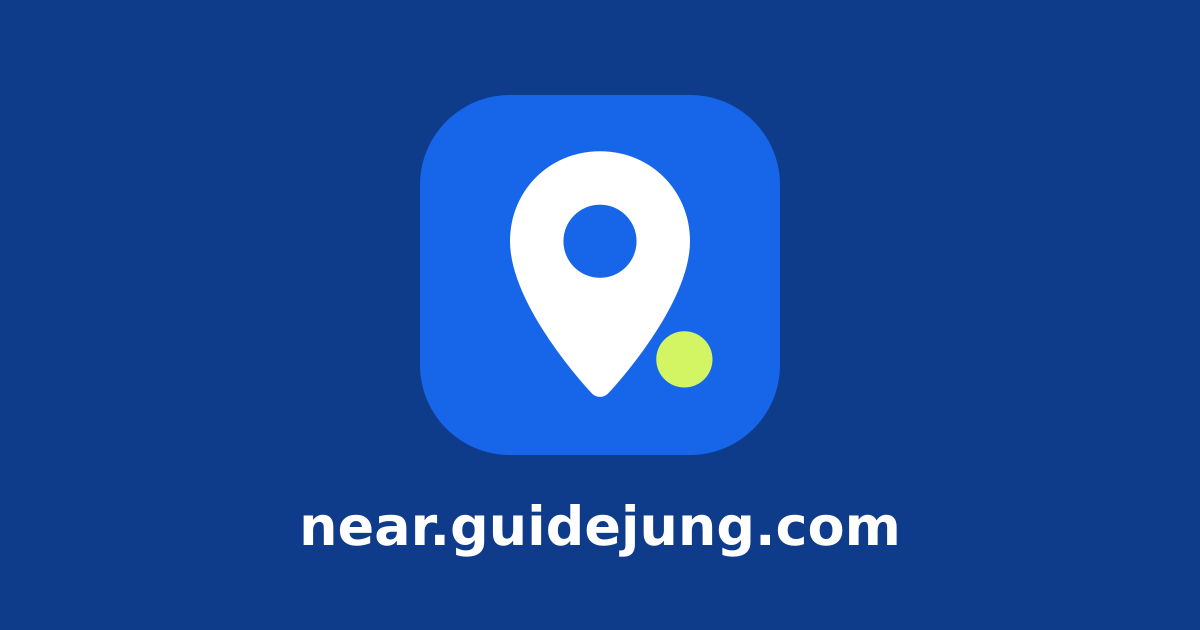
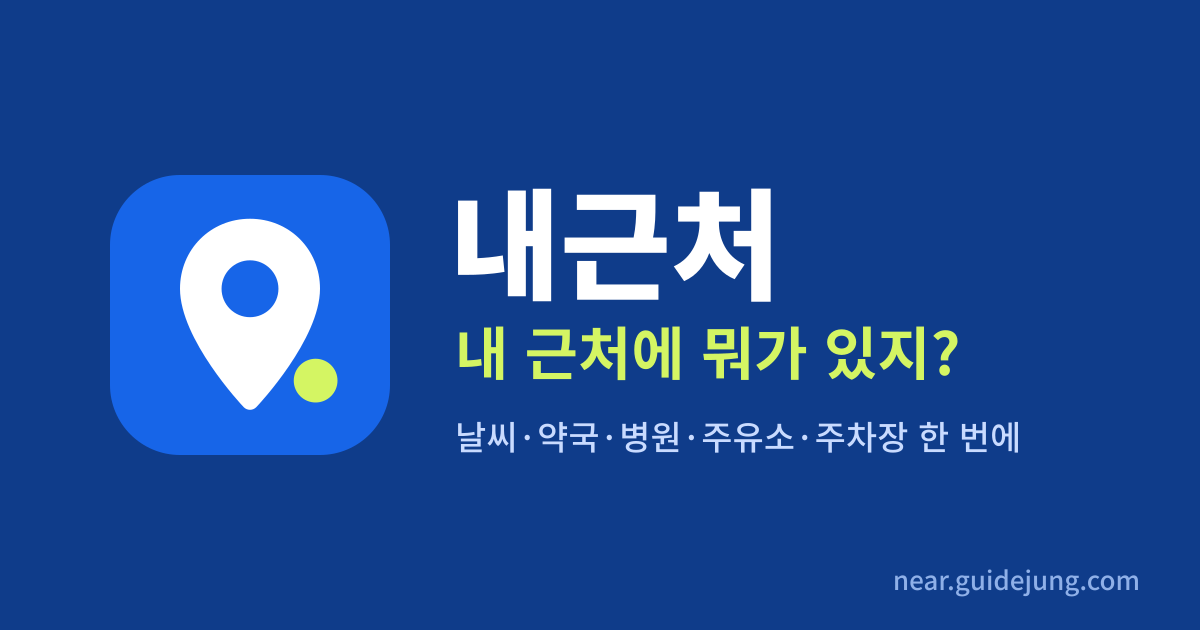
내근처(near): 이름·부제 A안 '내근처 · 내 근처에 뭐가 있지?' — 한글 미리보기 이미지(Noto Sans KR)·탭 제목·첫 화면·연결 바 '모아보기'
Claude-Session: https://claude.ai/code/session_01VWGcUchHHUhxp44WWZx2Vw

Changed region(s): [[0.0925, 0.1508, 0.8633, 0.7238], [0.2467, 0.7841, 0.7708, 0.9048], [0.74, 0.9048, 0.9558, 0.9349]]

diff --git a/packages/ui/src/network.tsx b/packages/ui/src/network.tsx
@@ -21,7 +21,7 @@ export const SITES:Record<Site,{url:string;icon:string;name:string;brand:string;
   oil:{url:'https://oil.guidejung.com',icon:'⛽',name:'주유소',brand:'내근처 주유소',tagline:'기름값 제일 싼 곳 어디?'},
   parking:{url:'https://parking.guidejung.com',icon:'🅿',name:'주차장',brand:'내근처 주차장',tagline:'여기 주차 어디 해?'},
   service:{url:'https://service.guidejung.com',icon:'🔧',name:'정비소',brand:'내근처 서비스센터',tagline:'고장 났다, 어디로 가지?'},
-  near:{url:'https://near.guidejung.com',icon:'📍',name:'한눈에',brand:'내근처',tagline:'내 주변, 지금 한 번에',hidden:true},
+  near:{url:'https://near.guidejung.com',icon:'📍',name:'모아보기',brand:'내근처',tagline:'내 근처에 뭐가 있지?',hidden:true},
 };
 const {trip:T,weather:W,traffic:R,charge:C}=Object.fromEntries(Object.entries(SITES).map(([k,v])=>[k,v.url])) as Record<Site,string>;
 
@@ -123,7 +123,7 @@ export const GENERIC:Record<Site,Link_>={
   oil:{icon:'⛽',title:'내 주변 싼 주유소',desc:'오늘 휘발유·경유 최저가',href:SITES.oil.url},
   parking:{icon:'🅿',title:'내 주변 공영·무료 주차장',desc:'1시간·2시간 예상 요금 싼 순',href:SITES.parking.url},
   service:{icon:'🔧',title:'내 주변 자동차 정비소·검사소',desc:'정비 맡기기 전 체크리스트·검사 과태료 계산',href:SITES.service.url},
-  near:{icon:'📍',title:'내 주변 한눈에',desc:'날씨·문 연 약국·병원·주유소·주차장을 한 화면에',href:SITES.near.url},
+  near:{icon:'📍',title:'내 근처에 뭐가 있지?',desc:'날씨·문 연 약국·병원·주유소·주차장을 한 화면에',href:SITES.near.url},
 };
 export const genericFor=(skip:Site)=>(Object.keys(GENERIC) as Site[]).filter(k=>k!==skip&&!SITES[k].hidden).map(k=>GENERIC[k]);
 export {T as TRIP_URL,W as WEATHER_URL,R as TRAFFIC_URL,C as CHARGE_URL};

diff --git a/apps/near/app/rss.xml/route.ts b/apps/near/app/rss.xml/route.ts
@@ -6,6 +6,6 @@ const esc=(s:string)=>s.replace(/[&<>"']/g,c=>({'&':'&amp;','<':'&lt;','>':'&gt;
 export function GET(){
   const now=new Date().toUTCString();
   const item=(title:string,path:string,desc:string)=>`<item><title>${esc(title)}</title><link>${SITE}${path}</link><guid isPermaLink="true">${SITE}${path}</guid><pubDate>${now}</pubDate><description>${esc(desc)}</description></item>`;
-  const items=[item('내 주변 한눈에','/','날씨·문 연 약국·진료 중인 병원·최저가 주유소·무료 주차장·충전기·가볼만한곳'),...SITUATIONS.map(s=>item(s.h1,`/situation/${s.slug}`,s.desc))].join('');
-  return new Response(`<?xml version="1.0" encoding="UTF-8"?>\n<rss version="2.0" xmlns:atom="http://www.w3.org/2005/Atom"><channel><title>내근처</title><link>${SITE}/</link><description>내 주변, 지금 한 번에</description><language>ko</language><lastBuildDate>${now}</lastBuildDate><atom:link href="${SITE}/rss.xml" rel="self" type="application/rss+xml"/>${items}</channel></rss>\n`,{headers:{'Content-Type':'application/rss+xml; charset=utf-8'}});
+  const items=[item('내 근처에 뭐가 있지?','/','날씨·문 연 약국·진료 중인 병원·최저가 주유소·무료 주차장·충전기·가볼만한곳'),...SITUATIONS.map(s=>item(s.h1,`/situation/${s.slug}`,s.desc))].join('');
+  return new Response(`<?xml version="1.0" encoding="UTF-8"?>\n<rss version="2.0" xmlns:atom="http://www.w3.org/2005/Atom"><channel><title>내근처</title><link>${SITE}/</link><description>내 근처에 뭐가 있지? 날씨·약국·병원·주유소·주차장 한 번에</description><language>ko</language><lastBuildDate>${now}</lastBuildDate><atom:link href="${SITE}/rss.xml" rel="self" type="application/rss+xml"/>${items}</channel></rss>\n`,{headers:{'Content-Type':'application/rss+xml; charset=utf-8'}});
 }

diff --git a/apps/near/app/layout.tsx b/apps/near/app/layout.tsx
@@ -11,6 +11,6 @@ import { SITE } from '../lib/site';
 
 // GA 측정 ID·Clarity 프로젝트 ID: 사용자에게 받으면 채움(빈 값이면 넣지 않음).
 const GA_ID='',CLARITY_ID='';
-export const metadata:Metadata={metadataBase:new URL(SITE),icons:{icon:'/icon.svg',apple:'/apple-touch-icon.png'},manifest:'/manifest.webmanifest',title:{default:'내근처 | 내 주변 날씨·문 연 약국·병원·최저가 주유소·무료 주차장 한눈에',template:'%s | 내근처'},
+export const metadata:Metadata={metadataBase:new URL(SITE),icons:{icon:'/icon.svg',apple:'/apple-touch-icon.png'},manifest:'/manifest.webmanifest',title:{default:'내근처 | 내 근처에 뭐가 있지? 날씨·문 연 약국·병원·최저가 주유소·무료 주차장 한 번에',template:'%s | 내근처'},
   description:'내 위치 하나로 지금 날씨, 문 연 약국, 진료 중인 병원, 가까운 최저가 주유소, 무료 공영 주차장, 충전 가능한 전기차 충전기, 가볼만한곳을 한 화면에. 공공데이터 기반 내근처 시리즈.',twitter:{card:'summary_large_image'},openGraph:{images:'/og.png',siteName:'내근처',locale:'ko_KR',type:'website'}};
 export default function Layout({children}:{children:React.ReactNode}){return <html lang="ko"><head>{GA_ID&&<GaScript id={GA_ID}/>}<AdSenseScript/>{CLARITY_ID&&<ClarityScript id={CLARITY_ID}/>}</head><body><JsonLd data={siteLd({...SITES.near,description:metadata.description as string})}/><Shell>{children}</Shell></body></html>;}

diff --git a/apps/near/app/page.tsx b/apps/near/app/page.tsx
@@ -16,7 +16,7 @@ export default function Home(){
     ['내 위치는 저장되나요?','위치는 버튼을 눌러 허용한 경우에만 쓰고, 이 브라우저와 내근처 사이트 안에서 30분 동안만 기억해요. 서버에 위치를 저장하지 않아요.'],
     ['정보는 얼마나 자주 바뀌나요?','약국·병원 진료 여부는 지금 시각 기준으로 계산하고, 날씨·충전기·응급실 병상은 실시간에 가깝게, 주유소 가격은 매일 갱신해요.']];
   return <div className="page">
-    <section className="nr-hero"><h1>내 주변, 지금 한 번에</h1><p>날씨 · 문 연 약국 · 진료 중인 병원 · 최저가 주유소 · 무료 주차장 · 충전기 · 가볼만한곳</p></section>
+    <section className="nr-hero"><h1>내 근처에 뭐가 있지?</h1><p>날씨 · 문 연 약국 · 진료 중인 병원 · 최저가 주유소 · 무료 주차장 · 충전기 · 가볼만한곳을 한 번에</p></section>
     <Dashboard areas={areas}/>
     <section><h2>이럴 땐 한 번에</h2><div className="nr-situations">{SITUATIONS.map(s=><Link key={s.slug} href={`/situation/${s.slug}`} className="nr-situation"><span aria-hidden="true">{s.icon}</span><b>{s.title}</b><small>{s.lead}</small></Link>)}</div></section>
     <AdSlot/>

diff --git a/apps/near/app/_components/Shell.tsx b/apps/near/app/_components/Shell.tsx
@@ -6,8 +6,8 @@ export function Shell({children}:{children:React.ReactNode}){
     <NetworkBar current="near"/>
     <header className="header"><div className="header-inner">
       <Link href="/" className="brand"><span aria-hidden="true">📍</span><span>내근처</span></Link>
-      <nav aria-label="주요 메뉴" className="nr-nav"><Link href="/">내 주변 한눈에</Link><Link href="/situation/sick-kid">아이 아플 때</Link><Link href="/situation/weekend">주말 나들이</Link><Link href="/situation/car-trouble">차 고장</Link></nav>
-      <span className="header-note">내 주변, 지금 한 번에</span>
+      <nav aria-label="주요 메뉴" className="nr-nav"><Link href="/">내 근처 모아보기</Link><Link href="/situation/sick-kid">아이 아플 때</Link><Link href="/situation/weekend">주말 나들이</Link><Link href="/situation/car-trouble">차 고장</Link></nav>
+      <span className="header-note">내 근처에 뭐가 있지?</span>
     </div></header>
     <main>{children}</main>
     <footer>

diff --git a/apps/near/app/not-found.tsx b/apps/near/app/not-found.tsx
@@ -1,2 +1,2 @@
 import Link from 'next/link';
-export default function NotFound(){return <div className="page"><h1>페이지를 찾을 수 없어요</h1><p>주소가 바뀌었거나 없는 페이지예요.</p><p><Link href="/">내 주변 한눈에</Link> · <Link href="/situation/sick-kid">아이 아플 때</Link> · <Link href="/situation/weekend">주말 나들이</Link></p></div>;}
+export default function NotFound(){return <div className="page"><h1>페이지를 찾을 수 없어요</h1><p>주소가 바뀌었거나 없는 페이지예요.</p><p><Link href="/">내 근처 모아보기</Link> · <Link href="/situation/sick-kid">아이 아플 때</Link> · <Link href="/situation/weekend">주말 나들이</Link></p></div>;}
